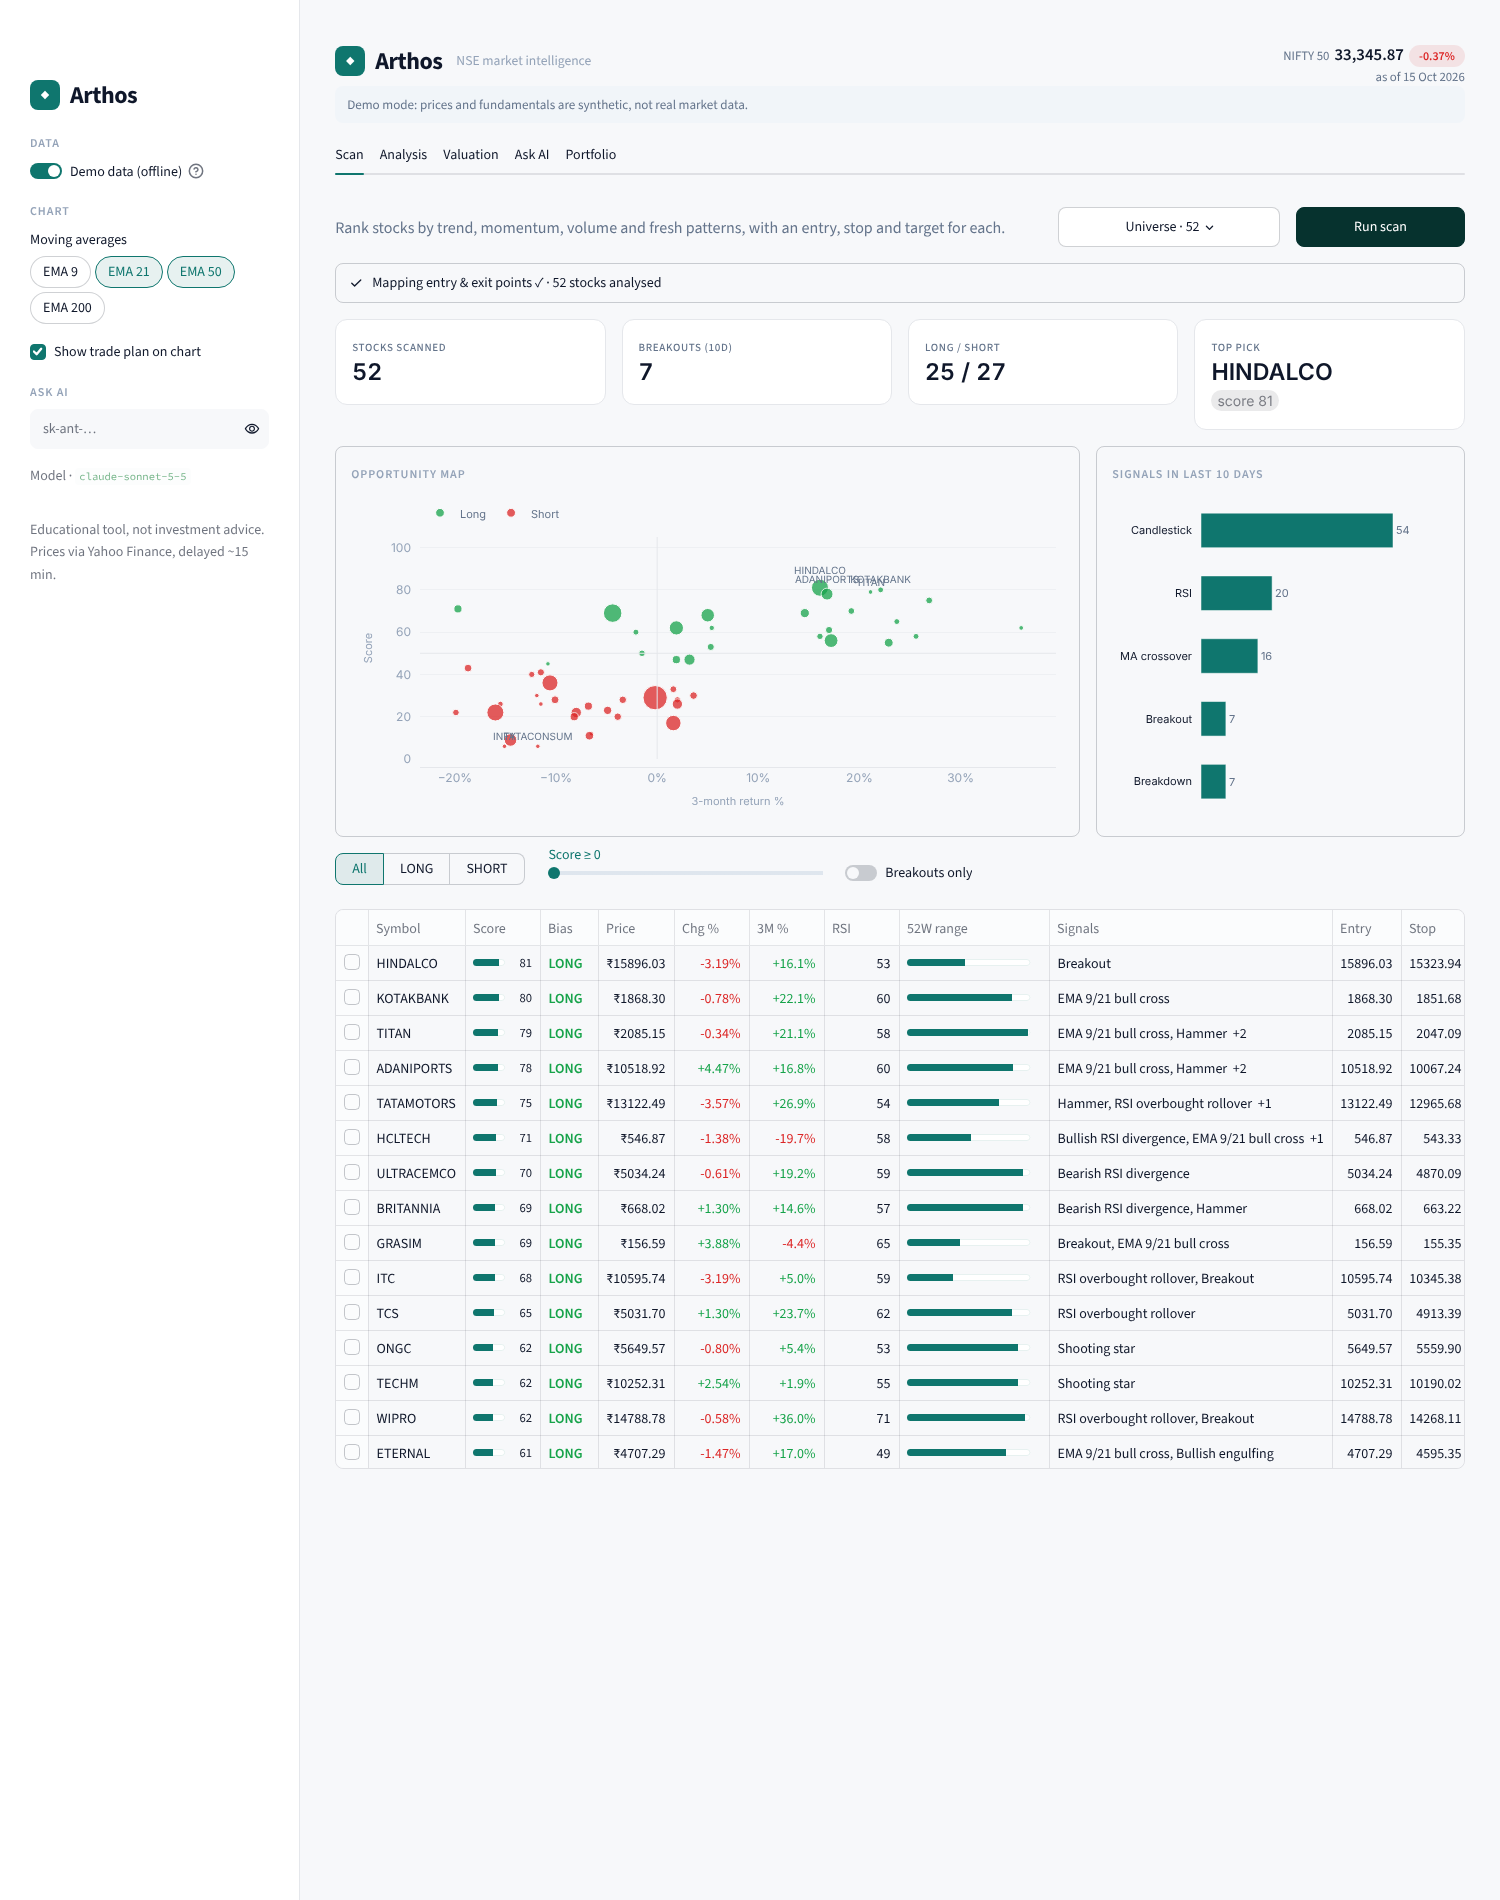
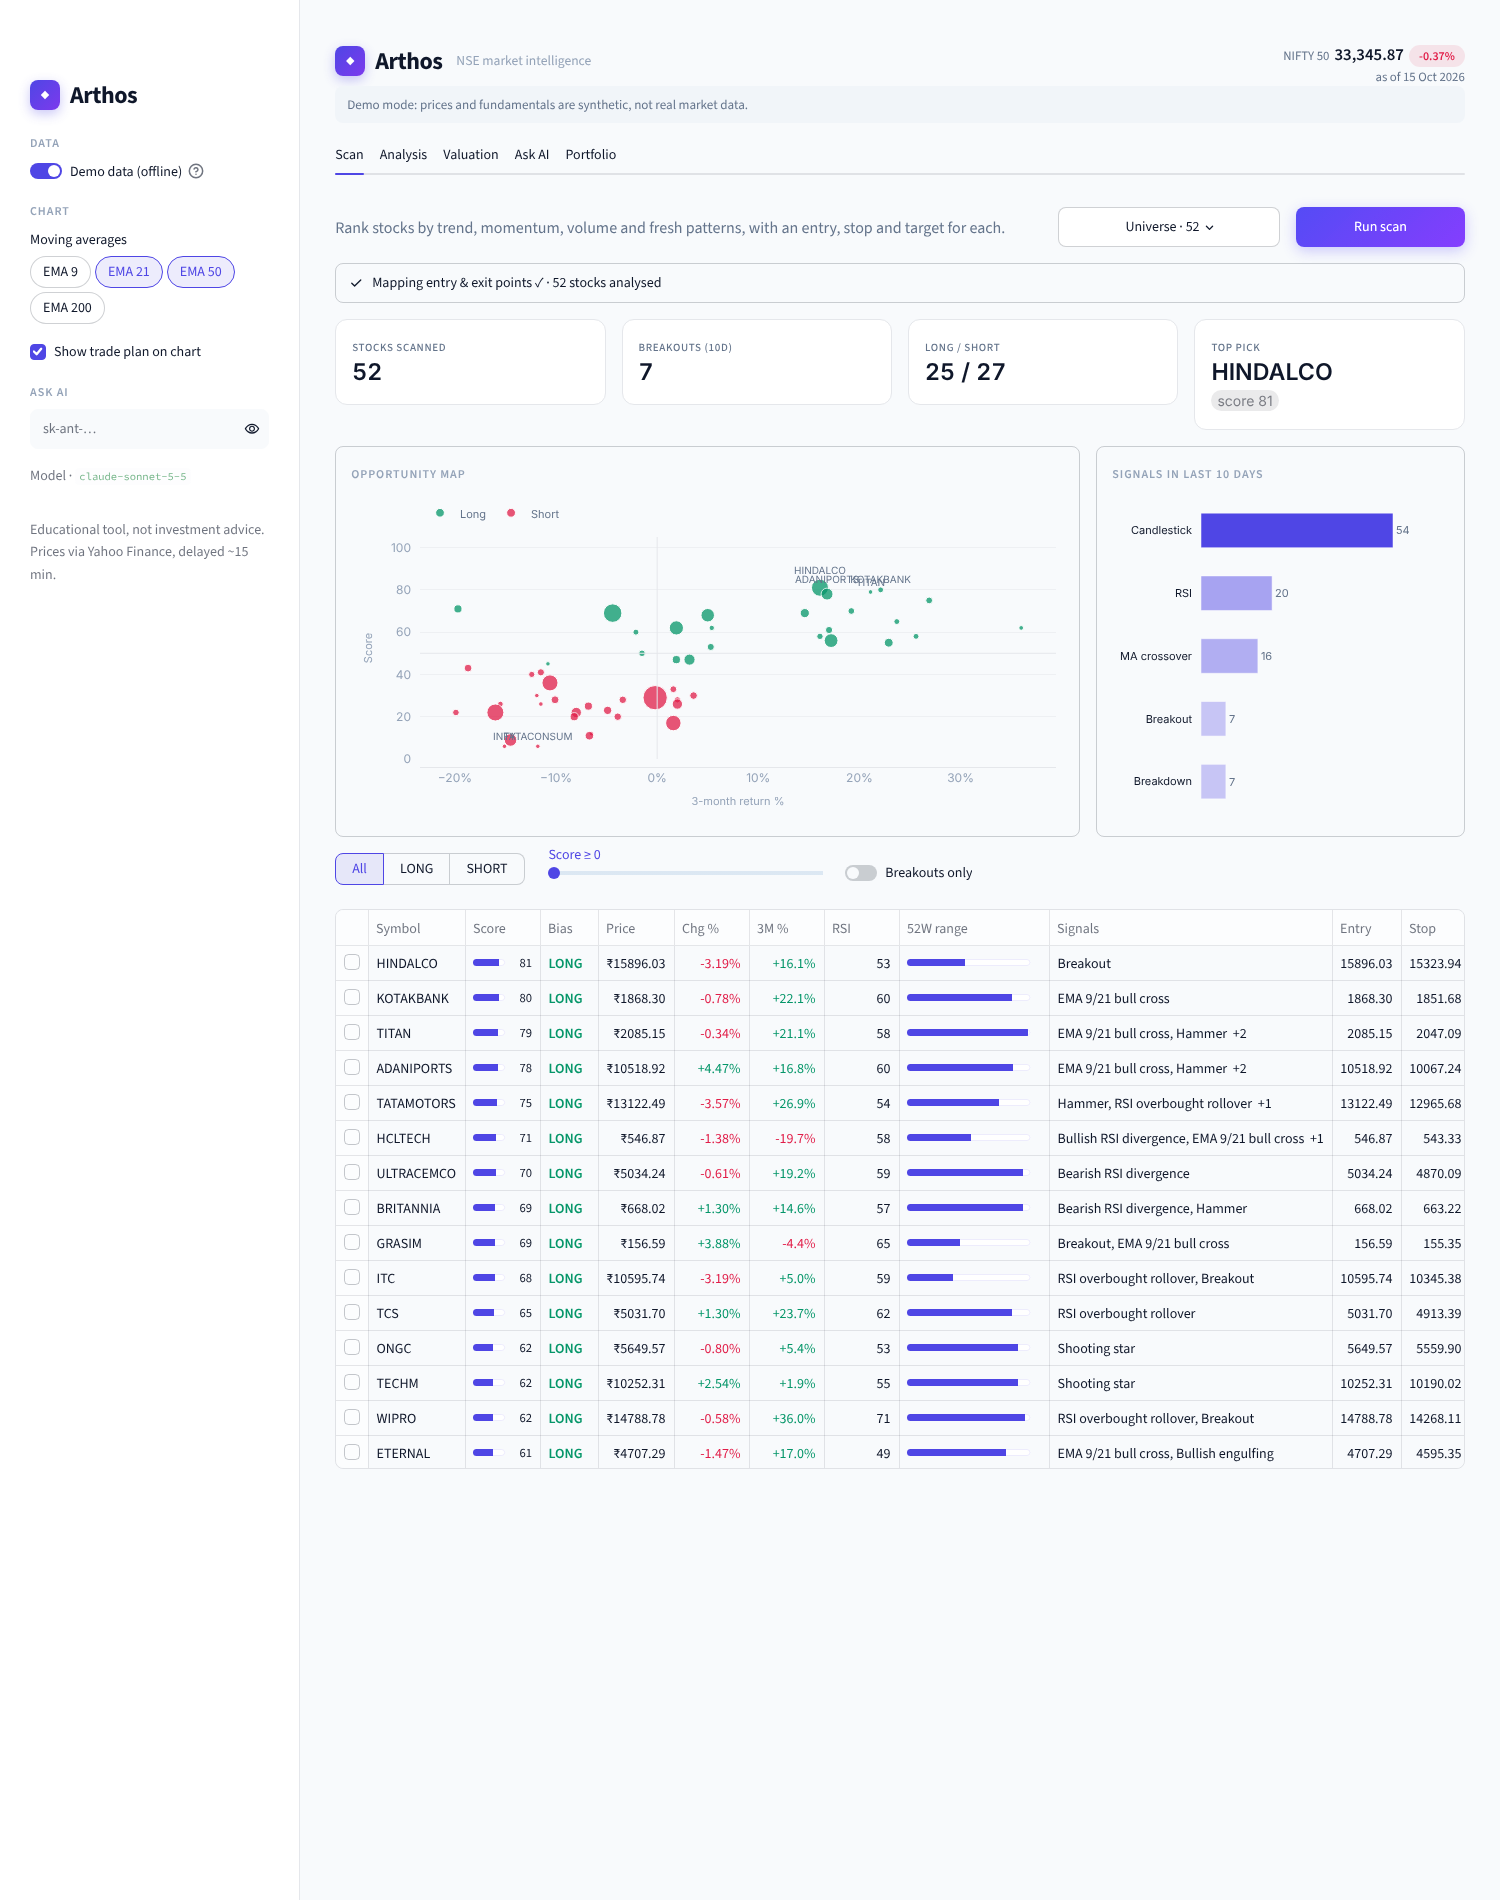
Royal Indigo theme with gradient accents
- New theme.py: palettes selectable via ARTHOS_THEME (default indigo)
- Indigo-to-violet gradients on brand mark, primary button, tab
  highlight and score bars; bar charts shaded by value
- Richer gain/loss colors (#059669 / #E11D48); widgets use #4F46E5

Claude-Session: https://claude.ai/code/session_01WCRpc8GH59uDg471ocafUB

diff --git a/charts.py b/charts.py
@@ -5,19 +5,14 @@ import pandas as pd
 import plotly.graph_objects as go
 from plotly.subplots import make_subplots
 
-INK = "#0F172A"
-MUTED = "#64748B"
-FAINT = "#94A3B8"
-GRID = "#EEF0F3"
-BORDER = "#E5E7EB"
-ACCENT = "#0F766E"
-UP = "#16A34A"
-DOWN = "#DC2626"
-UP_SOFT = "rgba(22,163,74,0.08)"
-DOWN_SOFT = "rgba(220,38,38,0.08)"
-FONT = "Inter, -apple-system, Segoe UI, sans-serif"
+from theme import ACCENT, ACCENT2, ACCENT_SOFT, BORDER, DOWN, FAINT, GRID, INK, MUTED, UP, rgba
 
-EMA_COLORS = {9: "#F59E0B", 21: ACCENT, 50: "#6366F1", 200: "#A1A1AA"}
+UP_SOFT = rgba(UP, 0.08)
+DOWN_SOFT = rgba(DOWN, 0.08)
+FONT = "Inter, -apple-system, Segoe UI, sans-serif"
+SCALE = [[0, ACCENT_SOFT], [1, ACCENT]]
+
+EMA_COLORS = {9: "#F59E0B", 21: ACCENT, 50: ACCENT2, 200: "#A1A1AA"}
 
 
 def base_layout(fig: go.Figure, height: int, **kw) -> go.Figure:
@@ -43,7 +38,7 @@ def price_chart(r: dict, emas: tuple[int, ...] = (21, 50), show_plan: bool = Tru
                         specs=[[{"secondary_y": True}], [{}]])
 
     # volume as a faint overlay on the bottom of the price panel
-    vcol = [UP_SOFT.replace("0.08", "0.25") if c >= o else DOWN_SOFT.replace("0.08", "0.25")
+    vcol = [rgba(UP, 0.25) if c >= o else rgba(DOWN, 0.25)
             for o, c in zip(df.Open, df.Close)]
     fig.add_trace(go.Bar(x=df.index, y=df.Volume, marker_color=vcol, marker_line_width=0, name="Volume",
                          showlegend=False, hovertemplate="Vol %{y:,.0f}<extra></extra>"), 1, 1, secondary_y=True)
@@ -94,7 +89,7 @@ def price_chart(r: dict, emas: tuple[int, ...] = (21, 50), show_plan: bool = Tru
                                bgcolor=col, borderpad=3, row=1, col=1)
 
     # RSI panel
-    fig.add_hrect(y0=30, y1=70, fillcolor="rgba(15,118,110,0.05)", line_width=0, row=2, col=1)
+    fig.add_hrect(y0=30, y1=70, fillcolor=rgba(ACCENT, 0.05), line_width=0, row=2, col=1)
     fig.add_trace(go.Scatter(x=df.index, y=df.RSI, mode="lines", line=dict(color=ACCENT, width=1.3),
                              name="RSI", showlegend=False, hovertemplate="RSI %{y:.0f}<extra></extra>"), 2, 1)
 
@@ -144,7 +139,8 @@ def score_bars(score: dict) -> go.Figure:
     pct = [100 * v / m for v, m in zip(vals, maxes)]
     fig = go.Figure()
     fig.add_trace(go.Bar(y=names, x=[100] * 4, orientation="h", marker_color=GRID, hoverinfo="skip", width=0.42))
-    fig.add_trace(go.Bar(y=names, x=pct, orientation="h", marker_color=ACCENT, width=0.42, hoverinfo="skip"))
+    fig.add_trace(go.Bar(y=names, x=pct, orientation="h", marker=dict(color=pct, colorscale=SCALE, cmin=0, cmax=100), width=0.42,
+                         hoverinfo="skip"))
     for n, v, m in zip(names, vals, maxes):
         fig.add_annotation(x=100, y=n, text=f"{v:.0f}<span style='color:{FAINT}'>/{m}</span>", showarrow=False,
                            xanchor="left", xshift=8, font=dict(size=11, color=INK))
@@ -223,7 +219,7 @@ def opportunity_map(res: pd.DataFrame) -> go.Figure:
 
 def signal_mix(counts: pd.Series) -> go.Figure:
     counts = counts.sort_values()
-    fig = go.Figure(go.Bar(y=counts.index, x=counts.values, orientation="h", marker_color=ACCENT, width=0.55,
+    fig = go.Figure(go.Bar(y=counts.index, x=counts.values, orientation="h", marker=dict(color=counts.values, colorscale=SCALE, cmin=0, cmax=max(counts.max(), 1)), width=0.55,
                            text=counts.values, textposition="outside", textfont=dict(size=11, color=MUTED),
                            hovertemplate="%{y}: %{x}<extra></extra>"))
     base_layout(fig, 330, showlegend=False)
@@ -234,7 +230,7 @@ def signal_mix(counts: pd.Series) -> go.Figure:
 
 # ------------------------------------------------------------------ portfolio
 def allocation_donut(buckets: pd.Series, capital: float) -> go.Figure:
-    palette = {"Momentum": ACCENT, "Quality": "#6366F1", "Nifty 50": "#CBD5E1"}
+    palette = {"Momentum": ACCENT, "Quality": ACCENT2, "Nifty 50": "#CBD5E1"}
     fig = go.Figure(go.Pie(labels=buckets.index, values=buckets.values, hole=0.68, sort=False,
                            marker=dict(colors=[palette.get(b, FAINT) for b in buckets.index],
                                        line=dict(color="white", width=3)),

diff --git a/app.py b/app.py
@@ -13,7 +13,7 @@ import streamlit as st
 
 import ai
 import charts
-from charts import ACCENT, DOWN, FAINT, INK, MUTED, UP
+from theme import ACCENT, BAR_GRADIENT, BG, DOWN, FAINT, GRADIENT, INK, MUTED, UP, rgba
 from data import NIFTY50, NIFTY_ETF, PERIODS, get_fundamentals, get_history, get_index_quote, get_many, to_symbol
 from strategy import analyze
 from valuation import valuation
@@ -47,13 +47,13 @@ div[data-testid="stVerticalBlockBorderWrapper"] {{ border-radius: 12px !importan
 .stTabs [aria-selected="true"] {{ color: {INK} !important; }}
 
 .brand {{ display:flex; align-items:center; gap:10px; }}
-.brand .mark {{ width:30px; height:30px; border-radius:8px; background:{ACCENT}; color:white; display:grid;
+.brand .mark {{ width:30px; height:30px; border-radius:8px; background:{GRADIENT}; color:white; display:grid;
                place-items:center; font-size:15px; font-weight:700; }}
 .brand .name {{ font-size:1.5rem; font-weight:700; color:{INK}; letter-spacing:-0.02em; }}
 .brand .tag {{ color:{FAINT}; font-size:.85rem; margin-left:4px; }}
 .pill {{ display:inline-block; padding:2px 10px; border-radius:999px; font-size:12px; font-weight:600; }}
-.pill.up {{ background:rgba(22,163,74,.1); color:{UP}; }}
-.pill.down {{ background:rgba(220,38,38,.1); color:{DOWN}; }}
+.pill.up {{ background:{rgba(UP, .1)}; color:{UP}; }}
+.pill.down {{ background:{rgba(DOWN, .1)}; color:{DOWN}; }}
 .pill.neutral {{ background:#F1F5F9; color:{MUTED}; }}
 .mkt {{ text-align:right; color:{MUTED}; font-size:.8rem; line-height:1.5; }}
 .mkt b {{ color:{INK}; font-size:1.05rem; font-variant-numeric: tabular-nums; }}
@@ -70,6 +70,12 @@ div[data-testid="stVerticalBlockBorderWrapper"] {{ border-radius: 12px !importan
 .plan th {{ color:{FAINT}; font-weight:500; font-size:.72rem; text-transform:uppercase; letter-spacing:.06em; text-align:left; }}
 .plan table {{ width:100%; border-collapse:collapse; }}
 .plan tr {{ border-bottom:1px solid #F1F5F9; }}
+/* rich accents */
+.stButton button[kind="primary"] {{ background:{GRADIENT}; border:none; color:white;
+                                   box-shadow: 0 4px 14px {rgba(ACCENT, 0.28)}; }}
+.stButton button[kind="primary"]:hover {{ filter:brightness(1.07); color:white; }}
+.stTabs [data-baseweb="tab-highlight"] {{ background:{GRADIENT} !important; height:3px; border-radius:3px; }}
+.brand .mark {{ box-shadow: 0 4px 12px {rgba(ACCENT, 0.3)}; }}
 
 /* scan cards (phones) */
 .scard {{ background:#FFFFFF; border:1px solid #E5E7EB; border-radius:14px; padding:12px 14px; margin-bottom:10px; }}
@@ -77,7 +83,7 @@ div[data-testid="stVerticalBlockBorderWrapper"] {{ border-radius: 12px !importan
 .scard .sym {{ font-weight:700; color:{INK}; font-size:1rem; }}
 .scard .px {{ font-weight:600; color:{INK}; font-variant-numeric: tabular-nums; }}
 .scard .bar {{ height:6px; background:#EEF0F3; border-radius:99px; margin:9px 0 4px; overflow:hidden; }}
-.scard .bar > div {{ height:100%; background:{ACCENT}; border-radius:99px; }}
+.scard .bar > div {{ height:100%; background:{BAR_GRADIENT}; border-radius:99px; }}
 .scard .meta {{ color:{FAINT}; font-size:.78rem; display:flex; justify-content:space-between; }}
 .scard .sigs {{ color:{MUTED}; font-size:.82rem; margin:6px 0 8px; }}
 .scard .lv {{ display:grid; grid-template-columns:repeat(3,1fr); gap:6px; border-top:1px solid #F1F5F9; padding-top:8px; }}
@@ -91,7 +97,7 @@ div[data-testid="stVerticalBlockBorderWrapper"] {{ border-radius: 12px !importan
   .brand .tag {{ display:none; }}
   .mkt {{ text-align:left; }}
   /* sticky, swipeable tab bar */
-  .stTabs [data-baseweb="tab-list"] {{ position: sticky; top: 0; z-index: 99; background: #F7F8FA; gap: 1.2rem;
+  .stTabs [data-baseweb="tab-list"] {{ position: sticky; top: 0; z-index: 99; background: {BG}; gap: 1.2rem;
                                       overflow-x: auto; scrollbar-width: none; }}
   .stTabs [data-baseweb="tab"] {{ padding: .75rem 0; font-size: .95rem; }}
   /* metrics: two per row, compact */

diff --git a/theme.py b/theme.py
@@ -1,0 +1,37 @@
+"""Color palettes for Arthos. Pick one with the ARTHOS_THEME env var."""
+from __future__ import annotations
+
+import os
+
+PALETTES = {
+    "indigo": {"name": "Royal Indigo", "accent": "#4F46E5", "accent2": "#7C3AED"},
+    "sapphire": {"name": "Sapphire", "accent": "#1D4ED8", "accent2": "#0EA5E9"},
+    "plum": {"name": "Plum & Gold", "accent": "#6D28D9", "accent2": "#D97706"},
+    "midnight": {"name": "Midnight & Coral", "accent": "#1E293B", "accent2": "#F43F5E"},
+}
+DEFAULT = "indigo"
+
+THEME = os.environ.get("ARTHOS_THEME", DEFAULT).lower()
+P = PALETTES.get(THEME, PALETTES[DEFAULT])
+
+ACCENT = P["accent"]
+ACCENT2 = P["accent2"]
+INK = "#0F172A"
+MUTED = "#64748B"
+FAINT = "#94A3B8"
+GRID = "#EEF0F3"
+BORDER = "#E5E7EB"
+BG = "#F8FAFC"
+UP = "#059669"
+DOWN = "#E11D48"
+
+
+def rgba(hex_color: str, alpha: float) -> str:
+    h = hex_color.lstrip("#")
+    r, g, b = (int(h[i:i + 2], 16) for i in (0, 2, 4))
+    return f"rgba({r},{g},{b},{alpha})"
+
+
+ACCENT_SOFT = rgba(ACCENT, 0.18)
+GRADIENT = f"linear-gradient(135deg, {ACCENT} 0%, {ACCENT2} 100%)"
+BAR_GRADIENT = f"linear-gradient(90deg, {ACCENT} 0%, {ACCENT2} 100%)"
